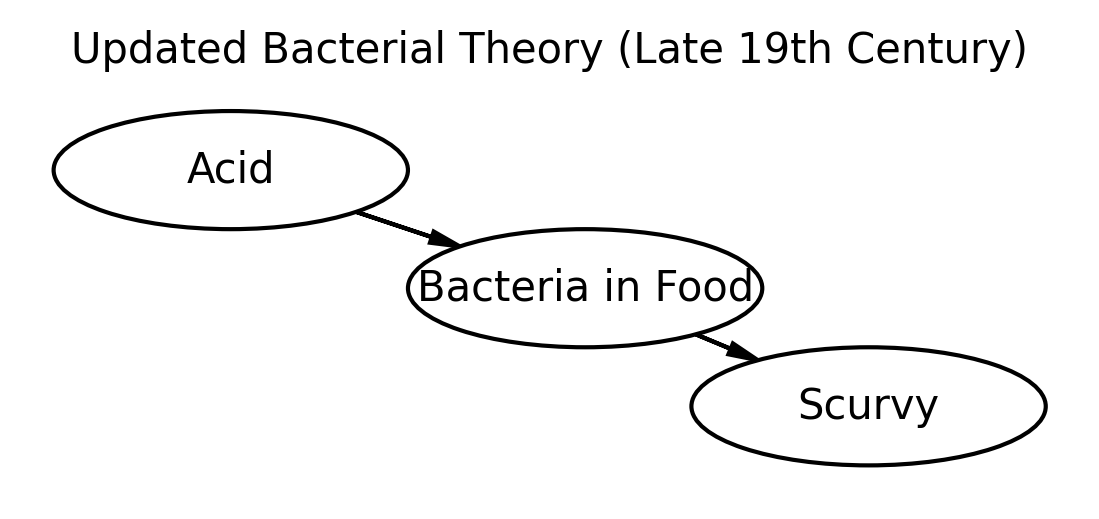
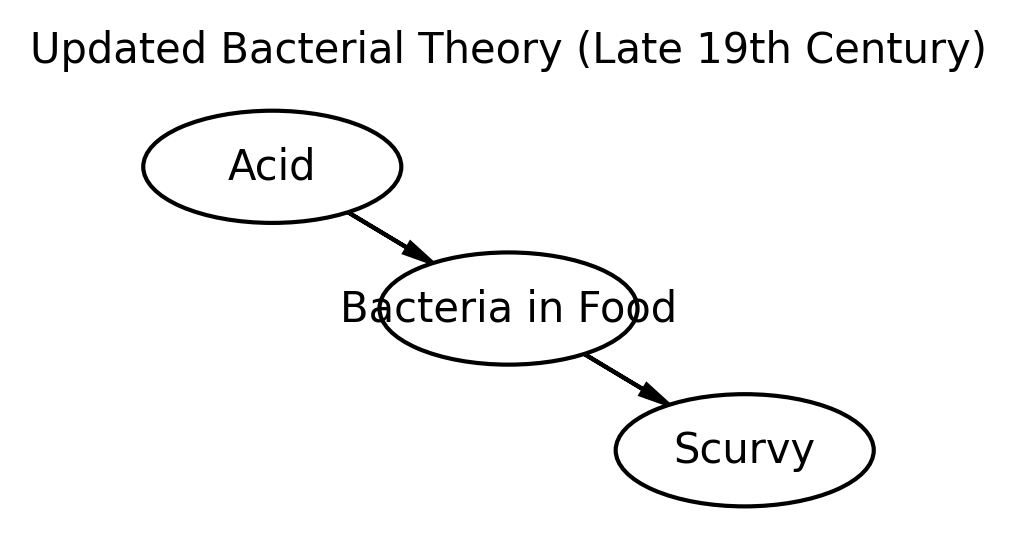
"Final"

diff --git a/index.html b/index.html
@@ -204,59 +204,36 @@ Ready to create beautiful DAGs!</code></pre>
 <p><strong>Historical Context:</strong> In 1747, James Lind discovered that lemons prevent scurvy through a controlled experiment. However, the understanding was incomplete - they knew lemons worked but not why.</p>
 <p><strong>Your Task:</strong> Recreate this DAG showing the relationship between lemons and scurvy prevention.</p>
 <p><strong>Reference Image:</strong> <img src="https://raw.githubusercontent.com/flyaflya/persuasive/642288ea5f79050c05801c3d127084ac0f361a01/images/scurvy2.png" class="img-fluid"></p>
-<div id="687bd322" class="cell" data-execution_count="2">
+<div id="e60d110f" class="cell" data-execution_count="2">
 <div class="code-copy-outer-scaffold"><div class="sourceCode cell-code" id="cb3"><pre class="sourceCode python code-with-copy"><code class="sourceCode python"><span id="cb3-1"><a href="#cb3-1" aria-hidden="true" tabindex="-1"></a><span class="im">import</span> daft</span>
 <span id="cb3-2"><a href="#cb3-2" aria-hidden="true" tabindex="-1"></a><span class="im">import</span> matplotlib.pyplot <span class="im">as</span> plt</span>
 <span id="cb3-3"><a href="#cb3-3" aria-hidden="true" tabindex="-1"></a></span>
-<span id="cb3-4"><a href="#cb3-4" aria-hidden="true" tabindex="-1"></a><span class="co"># Create a PGM object with a wide layout to mirror the reference</span></span>
-<span id="cb3-5"><a href="#cb3-5" aria-hidden="true" tabindex="-1"></a>pgm <span class="op">=</span> daft.PGM(dpi<span class="op">=</span><span class="dv">150</span>, aspect<span class="op">=</span><span class="fl">2.0</span>, observed_style<span class="op">=</span><span class="st">"inner"</span>, alternate_style<span class="op">=</span><span class="st">"outer"</span>)</span>
+<span id="cb3-4"><a href="#cb3-4" aria-hidden="true" tabindex="-1"></a><span class="co"># Minimal black-and-white styling to match the reference image</span></span>
+<span id="cb3-5"><a href="#cb3-5" aria-hidden="true" tabindex="-1"></a>pgm <span class="op">=</span> daft.PGM(dpi<span class="op">=</span><span class="dv">150</span>, aspect<span class="op">=</span><span class="fl">2.6</span>)</span>
 <span id="cb3-6"><a href="#cb3-6" aria-hidden="true" tabindex="-1"></a></span>
-<span id="cb3-7"><a href="#cb3-7" aria-hidden="true" tabindex="-1"></a><span class="co"># Add professionally styled nodes</span></span>
-<span id="cb3-8"><a href="#cb3-8" aria-hidden="true" tabindex="-1"></a>pgm.add_node(</span>
-<span id="cb3-9"><a href="#cb3-9" aria-hidden="true" tabindex="-1"></a>    <span class="st">"Lemons"</span>,</span>
-<span id="cb3-10"><a href="#cb3-10" aria-hidden="true" tabindex="-1"></a>    <span class="st">"Lemon</span><span class="ch">\n</span><span class="st">"</span><span class="op">+</span><span class="vs">r"</span><span class="dv">$</span><span class="vs">X</span><span class="dv">$</span><span class="vs">"</span>,</span>
-<span id="cb3-11"><a href="#cb3-11" aria-hidden="true" tabindex="-1"></a>    <span class="dv">1</span>,</span>
-<span id="cb3-12"><a href="#cb3-12" aria-hidden="true" tabindex="-1"></a>    <span class="dv">1</span>,</span>
-<span id="cb3-13"><a href="#cb3-13" aria-hidden="true" tabindex="-1"></a>    aspect<span class="op">=</span><span class="dv">3</span>,</span>
-<span id="cb3-14"><a href="#cb3-14" aria-hidden="true" tabindex="-1"></a>    scale<span class="op">=</span><span class="fl">1.1</span>,</span>
-<span id="cb3-15"><a href="#cb3-15" aria-hidden="true" tabindex="-1"></a>    plot_params<span class="op">=</span>{</span>
-<span id="cb3-16"><a href="#cb3-16" aria-hidden="true" tabindex="-1"></a>        <span class="st">"facecolor"</span>: <span class="st">"lightgoldenrodyellow"</span>,</span>
-<span id="cb3-17"><a href="#cb3-17" aria-hidden="true" tabindex="-1"></a>        <span class="st">"edgecolor"</span>: <span class="st">"goldenrod"</span>,</span>
-<span id="cb3-18"><a href="#cb3-18" aria-hidden="true" tabindex="-1"></a>        <span class="st">"linewidth"</span>: <span class="dv">2</span>,</span>
-<span id="cb3-19"><a href="#cb3-19" aria-hidden="true" tabindex="-1"></a>        <span class="st">"alpha"</span>: <span class="fl">0.8</span>,</span>
-<span id="cb3-20"><a href="#cb3-20" aria-hidden="true" tabindex="-1"></a>    },</span>
-<span id="cb3-21"><a href="#cb3-21" aria-hidden="true" tabindex="-1"></a>)</span>
-<span id="cb3-22"><a href="#cb3-22" aria-hidden="true" tabindex="-1"></a></span>
-<span id="cb3-23"><a href="#cb3-23" aria-hidden="true" tabindex="-1"></a>pgm.add_node(</span>
-<span id="cb3-24"><a href="#cb3-24" aria-hidden="true" tabindex="-1"></a>    <span class="st">"Scurvy"</span>,</span>
-<span id="cb3-25"><a href="#cb3-25" aria-hidden="true" tabindex="-1"></a>    <span class="st">"Scurvy</span><span class="ch">\n</span><span class="st">"</span><span class="op">+</span><span class="vs">r" </span><span class="dv">$</span><span class="kw">(</span><span class="vs">Y</span><span class="kw">)</span><span class="dv">$</span><span class="vs">"</span>,</span>
-<span id="cb3-26"><a href="#cb3-26" aria-hidden="true" tabindex="-1"></a>    <span class="fl">3.25</span>,</span>
-<span id="cb3-27"><a href="#cb3-27" aria-hidden="true" tabindex="-1"></a>    <span class="dv">1</span>,</span>
-<span id="cb3-28"><a href="#cb3-28" aria-hidden="true" tabindex="-1"></a>    aspect<span class="op">=</span><span class="dv">3</span>,</span>
-<span id="cb3-29"><a href="#cb3-29" aria-hidden="true" tabindex="-1"></a>    scale<span class="op">=</span><span class="fl">1.1</span>,</span>
-<span id="cb3-30"><a href="#cb3-30" aria-hidden="true" tabindex="-1"></a>    plot_params<span class="op">=</span>{</span>
-<span id="cb3-31"><a href="#cb3-31" aria-hidden="true" tabindex="-1"></a>        <span class="st">"facecolor"</span>: <span class="st">"honeydew"</span>,</span>
-<span id="cb3-32"><a href="#cb3-32" aria-hidden="true" tabindex="-1"></a>        <span class="st">"edgecolor"</span>: <span class="st">"seagreen"</span>,</span>
-<span id="cb3-33"><a href="#cb3-33" aria-hidden="true" tabindex="-1"></a>        <span class="st">"linewidth"</span>: <span class="dv">2</span>,</span>
-<span id="cb3-34"><a href="#cb3-34" aria-hidden="true" tabindex="-1"></a>        <span class="st">"alpha"</span>: <span class="fl">0.8</span>,</span>
-<span id="cb3-35"><a href="#cb3-35" aria-hidden="true" tabindex="-1"></a>    },</span>
-<span id="cb3-36"><a href="#cb3-36" aria-hidden="true" tabindex="-1"></a>)</span>
-<span id="cb3-37"><a href="#cb3-37" aria-hidden="true" tabindex="-1"></a></span>
-<span id="cb3-38"><a href="#cb3-38" aria-hidden="true" tabindex="-1"></a><span class="co"># Add the causal arrow representing the 1747 understanding</span></span>
-<span id="cb3-39"><a href="#cb3-39" aria-hidden="true" tabindex="-1"></a>pgm.add_edge(<span class="st">"Lemons"</span>, <span class="st">"Scurvy"</span>)</span>
-<span id="cb3-40"><a href="#cb3-40" aria-hidden="true" tabindex="-1"></a></span>
-<span id="cb3-41"><a href="#cb3-41" aria-hidden="true" tabindex="-1"></a><span class="co"># Render the DAG</span></span>
-<span id="cb3-42"><a href="#cb3-42" aria-hidden="true" tabindex="-1"></a>fig <span class="op">=</span> pgm.render()</span>
-<span id="cb3-43"><a href="#cb3-43" aria-hidden="true" tabindex="-1"></a>plt.title(<span class="st">"Simplified Lind's Model (1747)"</span>, fontsize<span class="op">=</span><span class="dv">10</span>)</span>
-<span id="cb3-44"><a href="#cb3-44" aria-hidden="true" tabindex="-1"></a>plt.tight_layout()</span></code></pre></div><button title="Copy to Clipboard" class="code-copy-button"><i class="bi"></i></button></div>
+<span id="cb3-7"><a href="#cb3-7" aria-hidden="true" tabindex="-1"></a>node_style <span class="op">=</span> {</span>
+<span id="cb3-8"><a href="#cb3-8" aria-hidden="true" tabindex="-1"></a>    <span class="st">"facecolor"</span>: <span class="st">"white"</span>,</span>
+<span id="cb3-9"><a href="#cb3-9" aria-hidden="true" tabindex="-1"></a>    <span class="st">"edgecolor"</span>: <span class="st">"black"</span>,</span>
+<span id="cb3-10"><a href="#cb3-10" aria-hidden="true" tabindex="-1"></a>    <span class="st">"linewidth"</span>: <span class="fl">1.2</span>,</span>
+<span id="cb3-11"><a href="#cb3-11" aria-hidden="true" tabindex="-1"></a>}</span>
+<span id="cb3-12"><a href="#cb3-12" aria-hidden="true" tabindex="-1"></a></span>
+<span id="cb3-13"><a href="#cb3-13" aria-hidden="true" tabindex="-1"></a><span class="co"># Node positions chosen to reproduce the spacing in the reference</span></span>
+<span id="cb3-14"><a href="#cb3-14" aria-hidden="true" tabindex="-1"></a>pgm.add_node(<span class="st">"Lemons"</span>, <span class="st">"Lemons"</span>, <span class="fl">1.0</span>, <span class="fl">1.0</span>, aspect<span class="op">=</span><span class="fl">2.6</span>, scale<span class="op">=</span><span class="fl">1.0</span>, fontsize<span class="op">=</span><span class="dv">10</span>, plot_params<span class="op">=</span>node_style)</span>
+<span id="cb3-15"><a href="#cb3-15" aria-hidden="true" tabindex="-1"></a>pgm.add_node(<span class="st">"Scurvy"</span>, <span class="st">"Scurvy"</span>, <span class="fl">3.1</span>, <span class="fl">1.0</span>, aspect<span class="op">=</span><span class="fl">2.6</span>, scale<span class="op">=</span><span class="fl">1.0</span>, fontsize<span class="op">=</span><span class="dv">10</span>, plot_params<span class="op">=</span>node_style)</span>
+<span id="cb3-16"><a href="#cb3-16" aria-hidden="true" tabindex="-1"></a></span>
+<span id="cb3-17"><a href="#cb3-17" aria-hidden="true" tabindex="-1"></a>pgm.add_edge(<span class="st">"Lemons"</span>, <span class="st">"Scurvy"</span>, plot_params<span class="op">=</span>{<span class="st">"linewidth"</span>: <span class="fl">1.2</span>, <span class="st">"color"</span>: <span class="st">"black"</span>})</span>
+<span id="cb3-18"><a href="#cb3-18" aria-hidden="true" tabindex="-1"></a></span>
+<span id="cb3-19"><a href="#cb3-19" aria-hidden="true" tabindex="-1"></a>fig <span class="op">=</span> pgm.render()</span>
+<span id="cb3-20"><a href="#cb3-20" aria-hidden="true" tabindex="-1"></a>plt.title(<span class="st">"Simplified Lind's Model (1747)"</span>, loc<span class="op">=</span><span class="st">"left"</span>, fontsize<span class="op">=</span><span class="dv">12</span>)</span>
+<span id="cb3-21"><a href="#cb3-21" aria-hidden="true" tabindex="-1"></a>plt.tight_layout(pad<span class="op">=</span><span class="fl">0.2</span>)</span></code></pre></div><button title="Copy to Clipboard" class="code-copy-button"><i class="bi"></i></button></div>
 <div class="cell-output cell-output-stderr">
-<pre><code>/var/folders/9q/bp_9w0gj1h9cbhl6hpfpgh5r0000gn/T/ipykernel_10129/2265007778.py:44: UserWarning: This figure includes Axes that are not compatible with tight_layout, so results might be incorrect.
-  plt.tight_layout()</code></pre>
+<pre><code>/var/folders/9q/bp_9w0gj1h9cbhl6hpfpgh5r0000gn/T/ipykernel_11617/3376936419.py:21: UserWarning: This figure includes Axes that are not compatible with tight_layout, so results might be incorrect.
+  plt.tight_layout(pad=0.2)</code></pre>
 </div>
 <div class="cell-output cell-output-display">
 <div>
 <figure class="figure">
-<p><img src="index_files/figure-html/cell-3-output-2.png" width="514" height="147" class="figure-img"></p>
+<p><img src="index_files/figure-html/cell-3-output-2.png" width="455" height="144" class="figure-img"></p>
 </figure>
 </div>
 </div>
@@ -272,33 +249,33 @@ Ready to create beautiful DAGs!</code></pre>
 <span id="cb5-2"><a href="#cb5-2" aria-hidden="true" tabindex="-1"></a><span class="im">import</span> matplotlib.pyplot <span class="im">as</span> plt</span>
 <span id="cb5-3"><a href="#cb5-3" aria-hidden="true" tabindex="-1"></a></span>
 <span id="cb5-4"><a href="#cb5-4" aria-hidden="true" tabindex="-1"></a><span class="co"># Misguided (incorrect) causal story: Acid kills bacteria, which prevents scurvy</span></span>
-<span id="cb5-5"><a href="#cb5-5" aria-hidden="true" tabindex="-1"></a>pgm <span class="op">=</span> daft.PGM(dpi<span class="op">=</span><span class="dv">150</span>, aspect<span class="op">=</span><span class="fl">3.0</span>, observed_style<span class="op">=</span><span class="st">"inner"</span>, alternate_style<span class="op">=</span><span class="st">"outer"</span>)</span>
+<span id="cb5-5"><a href="#cb5-5" aria-hidden="true" tabindex="-1"></a>pgm <span class="op">=</span> daft.PGM(dpi<span class="op">=</span><span class="dv">150</span>, aspect<span class="op">=</span><span class="fl">2.0</span>, observed_style<span class="op">=</span><span class="st">"inner"</span>, alternate_style<span class="op">=</span><span class="st">"outer"</span>)</span>
 <span id="cb5-6"><a href="#cb5-6" aria-hidden="true" tabindex="-1"></a></span>
 <span id="cb5-7"><a href="#cb5-7" aria-hidden="true" tabindex="-1"></a>pgm.add_node(</span>
 <span id="cb5-8"><a href="#cb5-8" aria-hidden="true" tabindex="-1"></a>    <span class="st">"acid"</span>,</span>
 <span id="cb5-9"><a href="#cb5-9" aria-hidden="true" tabindex="-1"></a>    <span class="st">"Acid"</span>,</span>
-<span id="cb5-10"><a href="#cb5-10" aria-hidden="true" tabindex="-1"></a>    <span class="fl">1.0</span>,</span>
-<span id="cb5-11"><a href="#cb5-11" aria-hidden="true" tabindex="-1"></a>    <span class="fl">1.5</span>,</span>
-<span id="cb5-12"><a href="#cb5-12" aria-hidden="true" tabindex="-1"></a>    aspect<span class="op">=</span><span class="fl">3.0</span>,</span>
-<span id="cb5-13"><a href="#cb5-13" aria-hidden="true" tabindex="-1"></a>    scale<span class="op">=</span><span class="fl">1.0</span>,</span>
+<span id="cb5-10"><a href="#cb5-10" aria-hidden="true" tabindex="-1"></a>    <span class="fl">0.8</span>,</span>
+<span id="cb5-11"><a href="#cb5-11" aria-hidden="true" tabindex="-1"></a>    <span class="fl">1.7</span>,</span>
+<span id="cb5-12"><a href="#cb5-12" aria-hidden="true" tabindex="-1"></a>    aspect<span class="op">=</span><span class="fl">2.3</span>,</span>
+<span id="cb5-13"><a href="#cb5-13" aria-hidden="true" tabindex="-1"></a>    scale<span class="op">=</span><span class="fl">0.95</span>,</span>
 <span id="cb5-14"><a href="#cb5-14" aria-hidden="true" tabindex="-1"></a>)</span>
 <span id="cb5-15"><a href="#cb5-15" aria-hidden="true" tabindex="-1"></a></span>
 <span id="cb5-16"><a href="#cb5-16" aria-hidden="true" tabindex="-1"></a>pgm.add_node(</span>
 <span id="cb5-17"><a href="#cb5-17" aria-hidden="true" tabindex="-1"></a>    <span class="st">"bacteria_death"</span>,</span>
 <span id="cb5-18"><a href="#cb5-18" aria-hidden="true" tabindex="-1"></a>    <span class="st">"Bacteria in Food"</span>,</span>
-<span id="cb5-19"><a href="#cb5-19" aria-hidden="true" tabindex="-1"></a>    <span class="fl">2.5</span>,</span>
-<span id="cb5-20"><a href="#cb5-20" aria-hidden="true" tabindex="-1"></a>    <span class="fl">1.0</span>,</span>
-<span id="cb5-21"><a href="#cb5-21" aria-hidden="true" tabindex="-1"></a>    aspect<span class="op">=</span><span class="fl">3.0</span>,</span>
-<span id="cb5-22"><a href="#cb5-22" aria-hidden="true" tabindex="-1"></a>    scale<span class="op">=</span><span class="fl">1.0</span>,</span>
+<span id="cb5-19"><a href="#cb5-19" aria-hidden="true" tabindex="-1"></a>    <span class="fl">1.8</span>,</span>
+<span id="cb5-20"><a href="#cb5-20" aria-hidden="true" tabindex="-1"></a>    <span class="fl">1.1</span>,</span>
+<span id="cb5-21"><a href="#cb5-21" aria-hidden="true" tabindex="-1"></a>    aspect<span class="op">=</span><span class="fl">2.3</span>,</span>
+<span id="cb5-22"><a href="#cb5-22" aria-hidden="true" tabindex="-1"></a>    scale<span class="op">=</span><span class="fl">0.95</span>,</span>
 <span id="cb5-23"><a href="#cb5-23" aria-hidden="true" tabindex="-1"></a>)</span>
 <span id="cb5-24"><a href="#cb5-24" aria-hidden="true" tabindex="-1"></a></span>
 <span id="cb5-25"><a href="#cb5-25" aria-hidden="true" tabindex="-1"></a>pgm.add_node(</span>
 <span id="cb5-26"><a href="#cb5-26" aria-hidden="true" tabindex="-1"></a>    <span class="st">"scurvy_prev_wrong"</span>,</span>
 <span id="cb5-27"><a href="#cb5-27" aria-hidden="true" tabindex="-1"></a>    <span class="st">"Scurvy"</span>,</span>
-<span id="cb5-28"><a href="#cb5-28" aria-hidden="true" tabindex="-1"></a>    <span class="fl">3.7</span>,</span>
+<span id="cb5-28"><a href="#cb5-28" aria-hidden="true" tabindex="-1"></a>    <span class="fl">2.8</span>,</span>
 <span id="cb5-29"><a href="#cb5-29" aria-hidden="true" tabindex="-1"></a>    <span class="fl">0.5</span>,</span>
-<span id="cb5-30"><a href="#cb5-30" aria-hidden="true" tabindex="-1"></a>    aspect<span class="op">=</span><span class="fl">3.0</span>,</span>
-<span id="cb5-31"><a href="#cb5-31" aria-hidden="true" tabindex="-1"></a>    scale<span class="op">=</span><span class="fl">1.0</span>,</span>
+<span id="cb5-30"><a href="#cb5-30" aria-hidden="true" tabindex="-1"></a>    aspect<span class="op">=</span><span class="fl">2.3</span>,</span>
+<span id="cb5-31"><a href="#cb5-31" aria-hidden="true" tabindex="-1"></a>    scale<span class="op">=</span><span class="fl">0.95</span>,</span>
 <span id="cb5-32"><a href="#cb5-32" aria-hidden="true" tabindex="-1"></a>)</span>
 <span id="cb5-33"><a href="#cb5-33" aria-hidden="true" tabindex="-1"></a></span>
 <span id="cb5-34"><a href="#cb5-34" aria-hidden="true" tabindex="-1"></a>pgm.add_edge(<span class="st">"acid"</span>, <span class="st">"bacteria_death"</span>)</span>
@@ -308,13 +285,13 @@ Ready to create beautiful DAGs!</code></pre>
 <span id="cb5-38"><a href="#cb5-38" aria-hidden="true" tabindex="-1"></a>plt.title(<span class="st">"Updated Bacterial Theory (Late 19th Century)"</span>, fontsize<span class="op">=</span><span class="dv">10</span>)</span>
 <span id="cb5-39"><a href="#cb5-39" aria-hidden="true" tabindex="-1"></a>plt.tight_layout()</span></code></pre></div><button title="Copy to Clipboard" class="code-copy-button"><i class="bi"></i></button></div>
 <div class="cell-output cell-output-stderr">
-<pre><code>/var/folders/9q/bp_9w0gj1h9cbhl6hpfpgh5r0000gn/T/ipykernel_10129/2748028569.py:39: UserWarning: This figure includes Axes that are not compatible with tight_layout, so results might be incorrect.
+<pre><code>/var/folders/9q/bp_9w0gj1h9cbhl6hpfpgh5r0000gn/T/ipykernel_11617/68004821.py:39: UserWarning: This figure includes Axes that are not compatible with tight_layout, so results might be incorrect.
   plt.tight_layout()</code></pre>
 </div>
 <div class="cell-output cell-output-display">
 <div>
 <figure class="figure">
-<p><img src="index_files/figure-html/dag-2-misguided-output-2.png" id="dag-2-misguided" width="549" height="259" class="figure-img"></p>
+<p><img src="index_files/figure-html/dag-2-misguided-output-2.png" id="dag-2-misguided" width="508" height="280" class="figure-img"></p>
 </figure>
 </div>
 </div>
@@ -329,54 +306,48 @@ Ready to create beautiful DAGs!</code></pre>
 <div class="code-copy-outer-scaffold"><div class="sourceCode cell-code" id="cb7"><pre class="sourceCode python code-with-copy"><code class="sourceCode python"><span id="cb7-1"><a href="#cb7-1" aria-hidden="true" tabindex="-1"></a><span class="im">import</span> daft</span>
 <span id="cb7-2"><a href="#cb7-2" aria-hidden="true" tabindex="-1"></a><span class="im">import</span> matplotlib.pyplot <span class="im">as</span> plt</span>
 <span id="cb7-3"><a href="#cb7-3" aria-hidden="true" tabindex="-1"></a></span>
-<span id="cb7-4"><a href="#cb7-4" aria-hidden="true" tabindex="-1"></a><span class="co"># Use DAFT's default "inner" node styling (circles), and keep node aspect at 1.0.</span></span>
-<span id="cb7-5"><a href="#cb7-5" aria-hidden="true" tabindex="-1"></a><span class="co"># Tweaking y-coordinates gives the diagonal layout seen in the reference.</span></span>
-<span id="cb7-6"><a href="#cb7-6" aria-hidden="true" tabindex="-1"></a>pgm <span class="op">=</span> daft.PGM(dpi<span class="op">=</span><span class="dv">150</span>, aspect<span class="op">=</span><span class="fl">1.0</span>, alternate_style<span class="op">=</span><span class="st">"inner"</span>)</span>
-<span id="cb7-7"><a href="#cb7-7" aria-hidden="true" tabindex="-1"></a></span>
-<span id="cb7-8"><a href="#cb7-8" aria-hidden="true" tabindex="-1"></a>pgm.add_node(</span>
-<span id="cb7-9"><a href="#cb7-9" aria-hidden="true" tabindex="-1"></a>    <span class="st">"vitc"</span>,</span>
-<span id="cb7-10"><a href="#cb7-10" aria-hidden="true" tabindex="-1"></a>    <span class="st">"Vitamin C"</span>,</span>
-<span id="cb7-11"><a href="#cb7-11" aria-hidden="true" tabindex="-1"></a>    <span class="fl">0.7</span>,</span>
-<span id="cb7-12"><a href="#cb7-12" aria-hidden="true" tabindex="-1"></a>    <span class="fl">1.1</span>,</span>
-<span id="cb7-13"><a href="#cb7-13" aria-hidden="true" tabindex="-1"></a>    aspect<span class="op">=</span><span class="fl">1.45</span>,</span>
-<span id="cb7-14"><a href="#cb7-14" aria-hidden="true" tabindex="-1"></a>    <span class="co"># Bigger circles so the label text fits cleanly (matches the reference).</span></span>
-<span id="cb7-15"><a href="#cb7-15" aria-hidden="true" tabindex="-1"></a>    scale<span class="op">=</span><span class="fl">1.35</span>,</span>
-<span id="cb7-16"><a href="#cb7-16" aria-hidden="true" tabindex="-1"></a>    fontsize<span class="op">=</span><span class="fl">8.5</span>,</span>
-<span id="cb7-17"><a href="#cb7-17" aria-hidden="true" tabindex="-1"></a>)</span>
-<span id="cb7-18"><a href="#cb7-18" aria-hidden="true" tabindex="-1"></a>pgm.add_node(</span>
-<span id="cb7-19"><a href="#cb7-19" aria-hidden="true" tabindex="-1"></a>    <span class="st">"collagen"</span>,</span>
-<span id="cb7-20"><a href="#cb7-20" aria-hidden="true" tabindex="-1"></a>    <span class="co"># Single-line label fits better in the circle style.</span></span>
-<span id="cb7-21"><a href="#cb7-21" aria-hidden="true" tabindex="-1"></a>    <span class="st">"Collagen Synthesis"</span>,</span>
-<span id="cb7-22"><a href="#cb7-22" aria-hidden="true" tabindex="-1"></a>    <span class="fl">2.0</span>,</span>
-<span id="cb7-23"><a href="#cb7-23" aria-hidden="true" tabindex="-1"></a>    <span class="fl">0.5</span>,</span>
-<span id="cb7-24"><a href="#cb7-24" aria-hidden="true" tabindex="-1"></a>    aspect<span class="op">=</span><span class="fl">1.6</span>,</span>
-<span id="cb7-25"><a href="#cb7-25" aria-hidden="true" tabindex="-1"></a>    scale<span class="op">=</span><span class="fl">2.0</span>,</span>
-<span id="cb7-26"><a href="#cb7-26" aria-hidden="true" tabindex="-1"></a>    fontsize<span class="op">=</span><span class="fl">7.5</span>,</span>
-<span id="cb7-27"><a href="#cb7-27" aria-hidden="true" tabindex="-1"></a>)</span>
-<span id="cb7-28"><a href="#cb7-28" aria-hidden="true" tabindex="-1"></a>pgm.add_node(</span>
-<span id="cb7-29"><a href="#cb7-29" aria-hidden="true" tabindex="-1"></a>    <span class="st">"scurvy"</span>,</span>
-<span id="cb7-30"><a href="#cb7-30" aria-hidden="true" tabindex="-1"></a>    <span class="st">"Scurvy"</span>,</span>
-<span id="cb7-31"><a href="#cb7-31" aria-hidden="true" tabindex="-1"></a>    <span class="fl">3.3</span>,</span>
-<span id="cb7-32"><a href="#cb7-32" aria-hidden="true" tabindex="-1"></a>    <span class="fl">0.2</span>,</span>
-<span id="cb7-33"><a href="#cb7-33" aria-hidden="true" tabindex="-1"></a>    aspect<span class="op">=</span><span class="fl">1.45</span>,</span>
-<span id="cb7-34"><a href="#cb7-34" aria-hidden="true" tabindex="-1"></a>    scale<span class="op">=</span><span class="fl">1.4</span>,</span>
-<span id="cb7-35"><a href="#cb7-35" aria-hidden="true" tabindex="-1"></a>    fontsize<span class="op">=</span><span class="fl">8.5</span>,</span>
-<span id="cb7-36"><a href="#cb7-36" aria-hidden="true" tabindex="-1"></a>)</span>
-<span id="cb7-37"><a href="#cb7-37" aria-hidden="true" tabindex="-1"></a></span>
-<span id="cb7-38"><a href="#cb7-38" aria-hidden="true" tabindex="-1"></a>pgm.add_edge(<span class="st">"vitc"</span>, <span class="st">"collagen"</span>)</span>
-<span id="cb7-39"><a href="#cb7-39" aria-hidden="true" tabindex="-1"></a>pgm.add_edge(<span class="st">"collagen"</span>, <span class="st">"scurvy"</span>)</span>
-<span id="cb7-40"><a href="#cb7-40" aria-hidden="true" tabindex="-1"></a></span>
-<span id="cb7-41"><a href="#cb7-41" aria-hidden="true" tabindex="-1"></a>pgm.render()</span>
-<span id="cb7-42"><a href="#cb7-42" aria-hidden="true" tabindex="-1"></a>plt.title(<span class="st">"Simplified Modern Understanding (1930s onwards)"</span>, fontsize<span class="op">=</span><span class="dv">10</span>)</span>
-<span id="cb7-43"><a href="#cb7-43" aria-hidden="true" tabindex="-1"></a>plt.tight_layout()</span></code></pre></div><button title="Copy to Clipboard" class="code-copy-button"><i class="bi"></i></button></div>
+<span id="cb7-4"><a href="#cb7-4" aria-hidden="true" tabindex="-1"></a><span class="co"># Match the reference: simple white ellipses on a wider canvas.</span></span>
+<span id="cb7-5"><a href="#cb7-5" aria-hidden="true" tabindex="-1"></a>pgm <span class="op">=</span> daft.PGM(dpi<span class="op">=</span><span class="dv">150</span>, aspect<span class="op">=</span><span class="fl">2.0</span>, observed_style<span class="op">=</span><span class="st">"inner"</span>, alternate_style<span class="op">=</span><span class="st">"outer"</span>)</span>
+<span id="cb7-6"><a href="#cb7-6" aria-hidden="true" tabindex="-1"></a></span>
+<span id="cb7-7"><a href="#cb7-7" aria-hidden="true" tabindex="-1"></a>pgm.add_node(</span>
+<span id="cb7-8"><a href="#cb7-8" aria-hidden="true" tabindex="-1"></a>    <span class="st">"vitc"</span>,</span>
+<span id="cb7-9"><a href="#cb7-9" aria-hidden="true" tabindex="-1"></a>    <span class="st">"Vitamin C"</span>,</span>
+<span id="cb7-10"><a href="#cb7-10" aria-hidden="true" tabindex="-1"></a>    <span class="fl">0.9</span>,</span>
+<span id="cb7-11"><a href="#cb7-11" aria-hidden="true" tabindex="-1"></a>    <span class="fl">1.65</span>,</span>
+<span id="cb7-12"><a href="#cb7-12" aria-hidden="true" tabindex="-1"></a>    aspect<span class="op">=</span><span class="fl">2.3</span>,</span>
+<span id="cb7-13"><a href="#cb7-13" aria-hidden="true" tabindex="-1"></a>    scale<span class="op">=</span><span class="fl">1.0</span>,</span>
+<span id="cb7-14"><a href="#cb7-14" aria-hidden="true" tabindex="-1"></a>)</span>
+<span id="cb7-15"><a href="#cb7-15" aria-hidden="true" tabindex="-1"></a>pgm.add_node(</span>
+<span id="cb7-16"><a href="#cb7-16" aria-hidden="true" tabindex="-1"></a>    <span class="st">"collagen"</span>,</span>
+<span id="cb7-17"><a href="#cb7-17" aria-hidden="true" tabindex="-1"></a>    <span class="st">"Collagen Synthesis"</span>,</span>
+<span id="cb7-18"><a href="#cb7-18" aria-hidden="true" tabindex="-1"></a>    <span class="fl">2.0</span>,</span>
+<span id="cb7-19"><a href="#cb7-19" aria-hidden="true" tabindex="-1"></a>    <span class="fl">1.0</span>,</span>
+<span id="cb7-20"><a href="#cb7-20" aria-hidden="true" tabindex="-1"></a>    aspect<span class="op">=</span><span class="fl">2.7</span>,</span>
+<span id="cb7-21"><a href="#cb7-21" aria-hidden="true" tabindex="-1"></a>    scale<span class="op">=</span><span class="fl">1.05</span>,</span>
+<span id="cb7-22"><a href="#cb7-22" aria-hidden="true" tabindex="-1"></a>)</span>
+<span id="cb7-23"><a href="#cb7-23" aria-hidden="true" tabindex="-1"></a>pgm.add_node(</span>
+<span id="cb7-24"><a href="#cb7-24" aria-hidden="true" tabindex="-1"></a>    <span class="st">"scurvy"</span>,</span>
+<span id="cb7-25"><a href="#cb7-25" aria-hidden="true" tabindex="-1"></a>    <span class="st">"Scurvy"</span>,</span>
+<span id="cb7-26"><a href="#cb7-26" aria-hidden="true" tabindex="-1"></a>    <span class="fl">3.1</span>,</span>
+<span id="cb7-27"><a href="#cb7-27" aria-hidden="true" tabindex="-1"></a>    <span class="fl">0.35</span>,</span>
+<span id="cb7-28"><a href="#cb7-28" aria-hidden="true" tabindex="-1"></a>    aspect<span class="op">=</span><span class="fl">2.3</span>,</span>
+<span id="cb7-29"><a href="#cb7-29" aria-hidden="true" tabindex="-1"></a>    scale<span class="op">=</span><span class="fl">1.0</span>,</span>
+<span id="cb7-30"><a href="#cb7-30" aria-hidden="true" tabindex="-1"></a>)</span>
+<span id="cb7-31"><a href="#cb7-31" aria-hidden="true" tabindex="-1"></a></span>
+<span id="cb7-32"><a href="#cb7-32" aria-hidden="true" tabindex="-1"></a>pgm.add_edge(<span class="st">"vitc"</span>, <span class="st">"collagen"</span>)</span>
+<span id="cb7-33"><a href="#cb7-33" aria-hidden="true" tabindex="-1"></a>pgm.add_edge(<span class="st">"collagen"</span>, <span class="st">"scurvy"</span>)</span>
+<span id="cb7-34"><a href="#cb7-34" aria-hidden="true" tabindex="-1"></a></span>
+<span id="cb7-35"><a href="#cb7-35" aria-hidden="true" tabindex="-1"></a>pgm.render()</span>
+<span id="cb7-36"><a href="#cb7-36" aria-hidden="true" tabindex="-1"></a>plt.title(<span class="st">"Simplified Modern Understanding (1930s onwards)"</span>, fontsize<span class="op">=</span><span class="dv">10</span>)</span>
+<span id="cb7-37"><a href="#cb7-37" aria-hidden="true" tabindex="-1"></a>plt.tight_layout()</span></code></pre></div><button title="Copy to Clipboard" class="code-copy-button"><i class="bi"></i></button></div>
 <div class="cell-output cell-output-stderr">
-<pre><code>/var/folders/9q/bp_9w0gj1h9cbhl6hpfpgh5r0000gn/T/ipykernel_10129/1806180638.py:43: UserWarning: This figure includes Axes that are not compatible with tight_layout, so results might be incorrect.
+<pre><code>/var/folders/9q/bp_9w0gj1h9cbhl6hpfpgh5r0000gn/T/ipykernel_11617/2623652886.py:37: UserWarning: This figure includes Axes that are not compatible with tight_layout, so results might be incorrect.
   plt.tight_layout()</code></pre>
 </div>
 <div class="cell-output cell-output-display">
 <div>
 <figure class="figure">
-<p><img src="index_files/figure-html/dag-3-1928-output-2.png" id="dag-3-1928" width="558" height="270" class="figure-img"></p>
+<p><img src="index_files/figure-html/dag-3-1928-output-2.png" id="dag-3-1928" width="558" height="295" class="figure-img"></p>
 </figure>
 </div>
 </div>
@@ -420,7 +391,7 @@ Ready to create beautiful DAGs!</code></pre>
 <section id="example-simplified-modern-understanding-dag" class="level3">
 <h3 class="anchored" data-anchor-id="example-simplified-modern-understanding-dag">Example: Simplified Modern Understanding DAG</h3>
 <p>Here’s an example (see <strong>?@fig-example-node</strong>) that matches the simplified Vitamin C → Collagen Synthesis → Scurvy diagram:</p>
-<div id="3359ace1" class="cell" data-execution_count="5">
+<div id="09b4f7f4" class="cell" data-execution_count="5">
 <div class="code-copy-outer-scaffold"><div class="sourceCode cell-code" id="cb9"><pre class="sourceCode python code-with-copy"><code class="sourceCode python"><span id="cb9-1"><a href="#cb9-1" aria-hidden="true" tabindex="-1"></a><span class="im">import</span> daft</span>
 <span id="cb9-2"><a href="#cb9-2" aria-hidden="true" tabindex="-1"></a><span class="im">import</span> matplotlib.pyplot <span class="im">as</span> plt</span>
 <span id="cb9-3"><a href="#cb9-3" aria-hidden="true" tabindex="-1"></a></span>
